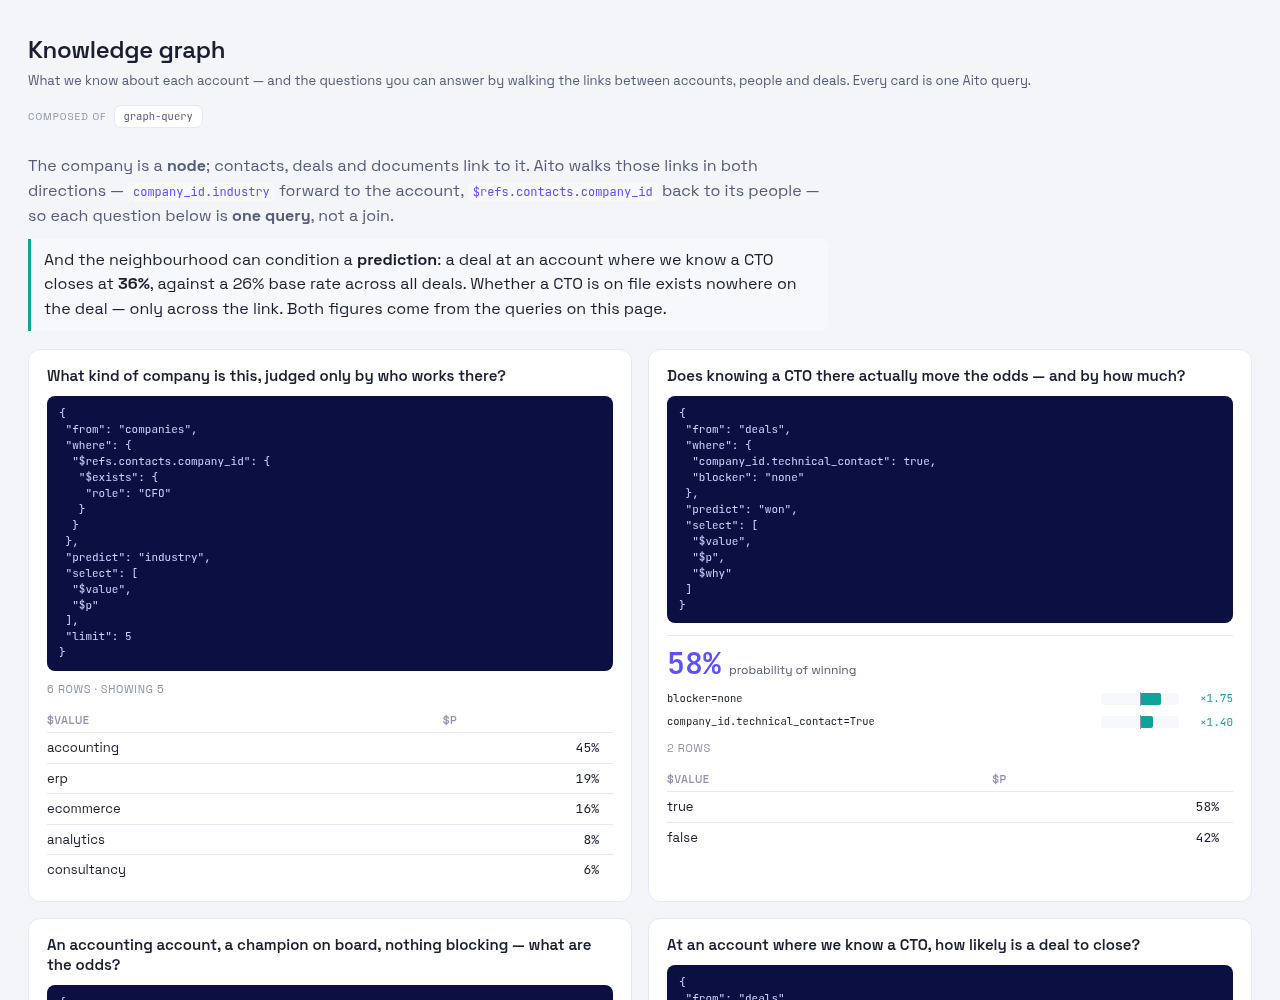
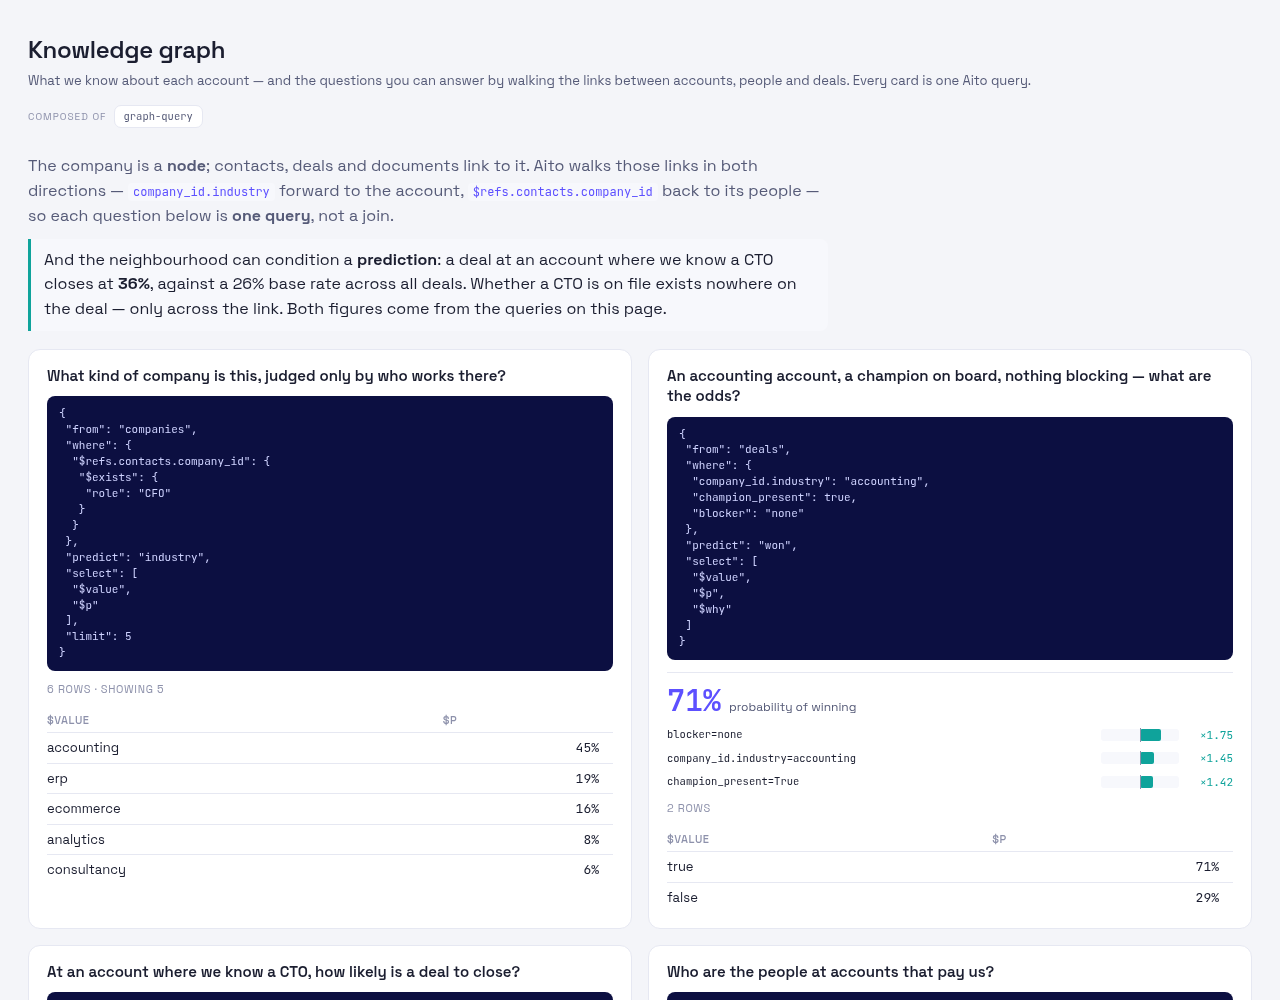
Explain a reverse-link prediction live, now that 2.10.3 allows it
Aito 2.10.3 explains a filtered `$refs` proposition; before, that query
returned 400 with `$why`, so a reverse-link prediction could have the number or
the reasons but never both. The live card now carries both — 36% at an account
where a CTO is on file, with that fact worth x1.38 — and the materialised
duplicate card is gone. `companies.technical_contact` stays: it is a useful
fact to filter and browse by, it just is not a workaround any more.

_why_label rendered a reverse-link proposition as `...company_id=None`, since
it has no plain value. It now names what the set was filtered on, which is the
fact a reader is being told moved the number.

docs/31's sharp edges are re-probed and dated against 2.10.3. Four of them are
gone, including the dangerous one: a mistyped linked path now raises and names
the valid fields instead of silently matching nothing. Still true: `recommend`
over a linked path 500s, `$exists` conditions are equality only, and `orderBy`
cannot name a `$refs` path.

Claude-Session: https://claude.ai/code/session_01AkYLb6hZYEM9HdMm8ErDig

diff --git a/src/company_ai/graph.py b/src/company_ai/graph.py
@@ -41,19 +41,6 @@ QUESTIONS: list[tuple[str, str, dict]] = [
          "predict": "industry", "select": ["$value", "$p"], "limit": 5},
     ),
     (
-        "cto-odds-explained",
-        "Does knowing a CTO there actually move the odds — and by how much?",
-        # The same reverse-link fact as the card below, but HARVESTED onto the
-        # company at load time (companies <- contacts), which turns it into a
-        # forward path. That matters for one reason: Aito cannot explain a
-        # filtered $refs proposition, so asked live the question can have a
-        # number or reasons, not both. Materialised, it gets both — and the
-        # lift on company_id.technical_contact is the answer to "by how much".
-        {"from": "deals",
-         "where": {"company_id.technical_contact": True, "blocker": "none"},
-         "predict": "won", "select": ["$value", "$p", "$why"]},
-    ),
-    (
         "explained-odds",
         "An accounting account, a champion on board, nothing blocking — what are the odds?",
         # Several facts at once, one of them reached across the link: the
@@ -78,7 +65,7 @@ QUESTIONS: list[tuple[str, str, dict]] = [
         {"from": "deals",
          "where": {"company_id.$refs.contacts.company_id":
                    {"$exists": {"role": "CTO"}}},
-         "predict": "won", "select": ["$value", "$p"]},
+         "predict": "won", "select": ["$value", "$p", "$why"]},
     ),
     (
         "people-at-customers",

diff --git a/src/company_ai/deals.py b/src/company_ai/deals.py
@@ -79,6 +79,15 @@ def _why_label(prop: dict) -> str:
     if key == "$and":
         return " & ".join(_why_label(p) for p in prop[key])
     inner = prop[key]
+    if isinstance(inner, dict) and "$exists" in inner:
+        # A reverse-link proposition ($refs ... $exists) carries no plain value,
+        # so the generic `key=value` rendered it as "...company_id=None". Name
+        # what the set was filtered on instead — that is the fact a reader is
+        # being told moved the number.
+        filt = inner["$exists"]
+        if isinstance(filt, dict) and filt:
+            return f"{key} has " + ", ".join(f"{k}={v}" for k, v in sorted(filt.items()))
+        return f"{key} exists"
     value = inner.get("$has") if isinstance(inner, dict) else inner
     return f"{key}={value}"
 

diff --git a/docs/31-knowledge-graph.md b/docs/31-knowledge-graph.md
@@ -95,11 +95,13 @@ same helper the deal close-likelihood already uses — and the view draws each
 factor as a bar either side of a midline, since lift is multiplicative and ×2
 and ×0.5 are the same size of effect in opposite directions.
 
-**Explaining a reverse-link fact: harvest it onto the node.** Because the
-filtered `$exists` form cannot be explained, the "do we know a CTO there?"
-fact is also materialised as `companies.technical_contact` at load time, by
-walking `companies <- contacts`. As a column it is an ordinary forward path,
-so a prediction conditioned on it comes back with its reasons:
+**The same fact, harvested onto the node.** `companies.technical_contact` is
+"do we know a CTO there?" computed at load time by walking
+`companies <- contacts`. It predates Aito 2.10.3, when a filtered `$refs`
+could not be explained and materialising the fact was the only way to get a
+reason out of it. The live form explains itself now, so the column is no
+longer a workaround — it is just a fact worth having on the node, because
+filtering and browsing by it needs no traversal at all:
 
 ```json
 { "from": "deals",
@@ -155,33 +157,41 @@ same sentence.
 
 ## Sharp edges
 
-This is a **young corner of Aito**, and the limits are worth knowing before you
-extend it. They are not bugs in this repo:
+Link support is young, and it moves. Everything below was re-probed against
+**Aito 2.10.3** (built 2026-09-27); the list shrank sharply from the day before,
+so re-check rather than trusting it.
 
-- **An unresolvable dotted field matches nothing, silently.** `company_id.NOPE`
-  returns `total: 0` rather than raising, so an empty graph result is ambiguous
-  between "no such rows" and "no such field". Decompose a surprising zero before
-  believing it.
-- **`$refs` needs the FK**: `$refs.contacts.company_id`, never `$refs.contacts`.
-- **Inside `$exists: {…}` only equality works.** Range and match operators have
-  to sit on a forward dotted path in the outer `where`.
-- **Don't `$and` two `$refs` `$exists` conditions** — that combination is known
-  broken upstream. One `$exists: {…}` object with several keys is fine.
-- **Two-hop `$exists: {"link.attr": v}` assumes the target key is named `id`.**
-  Ours are `company_id` / `contact_id`, so that form does not work here.
-- **`$refs` is materialised eagerly** over the whole table regardless of
-  `limit` — fine at this size, not a plan for millions of rows.
-- **A reload leaves link resolution stale, in both directions, silently.**
-  Drop-and-recreate the target and forward paths return zero; reload a referrer
-  and the target's `$refs` index returns zero. The rows are fine; the answer is
-  just wrong, and looks like "nothing matches". `loaders._reload` now flushes
-  both ends of every link it declares, which is why you will not hit this
-  through the loaders — but a hand-rolled upload can still walk into it.
-- **`$why` cannot explain a `$refs` proposition** — the query 400s in the
-  explanation formatter. Predict from a reverse link, or explain a prediction,
-  but not both in one query.
+**Fixed in 2.10.3** — these were real and are not any more:
+
+- An unresolvable linked path now **raises**, naming the field and listing the
+  valid ones, instead of silently matching nothing. This was the dangerous one:
+  a typo'd path returned `total: 0`, indistinguishable from "no rows match", so
+  a confident, correct-looking zero could reach a dashboard or an agent answer.
+- `$why` **explains a filtered `$refs`** proposition. Before, a reverse-link
+  prediction could have the number or the reasons, never both — which is why
+  `technical_contact` is also harvested onto the node.
+- The two-hop `$exists: {"link.attr": v}` form works with a link target whose
+  key is not named `id` (ours are `company_id`, `contact_id`).
+- `$and` over two `$refs` `$exists` conditions returns a result.
+
+**Still true:**
+
+- **`recommend` over a linked path 500s** (`"internal": "None.get"`), so "which
+  account property most drives a win" has no direct spelling; condition a
+  `predict` on the neighbourhood instead.
+- **Inside `$exists: {…}` conditions are equality only** — now a named
+  restriction rather than a crash. Range and match operators belong on a
+  forward dotted path in the outer `where`.
 - **`orderBy` cannot name a `$refs` path directly**; alias a `$length` in
   `select` and order by the alias.
+- **`$refs` is materialised eagerly** over the whole table regardless of
+  `limit` — fine at this size, not a plan for millions of rows.
+- **Link resolution goes stale after a reload, in both directions, silently.**
+  `loaders._reload` flushes both ends of every link it declares, which is why
+  you will not hit this through the loaders; a hand-rolled upload still can.
+- **Cross-table priors want a rep2 collection.** Our tables are declared
+  `type: "table"`; filtering works regardless, and how much predictive signal a
+  rep1 target contributes is still unconfirmed.
 
 ## Where this goes
 
